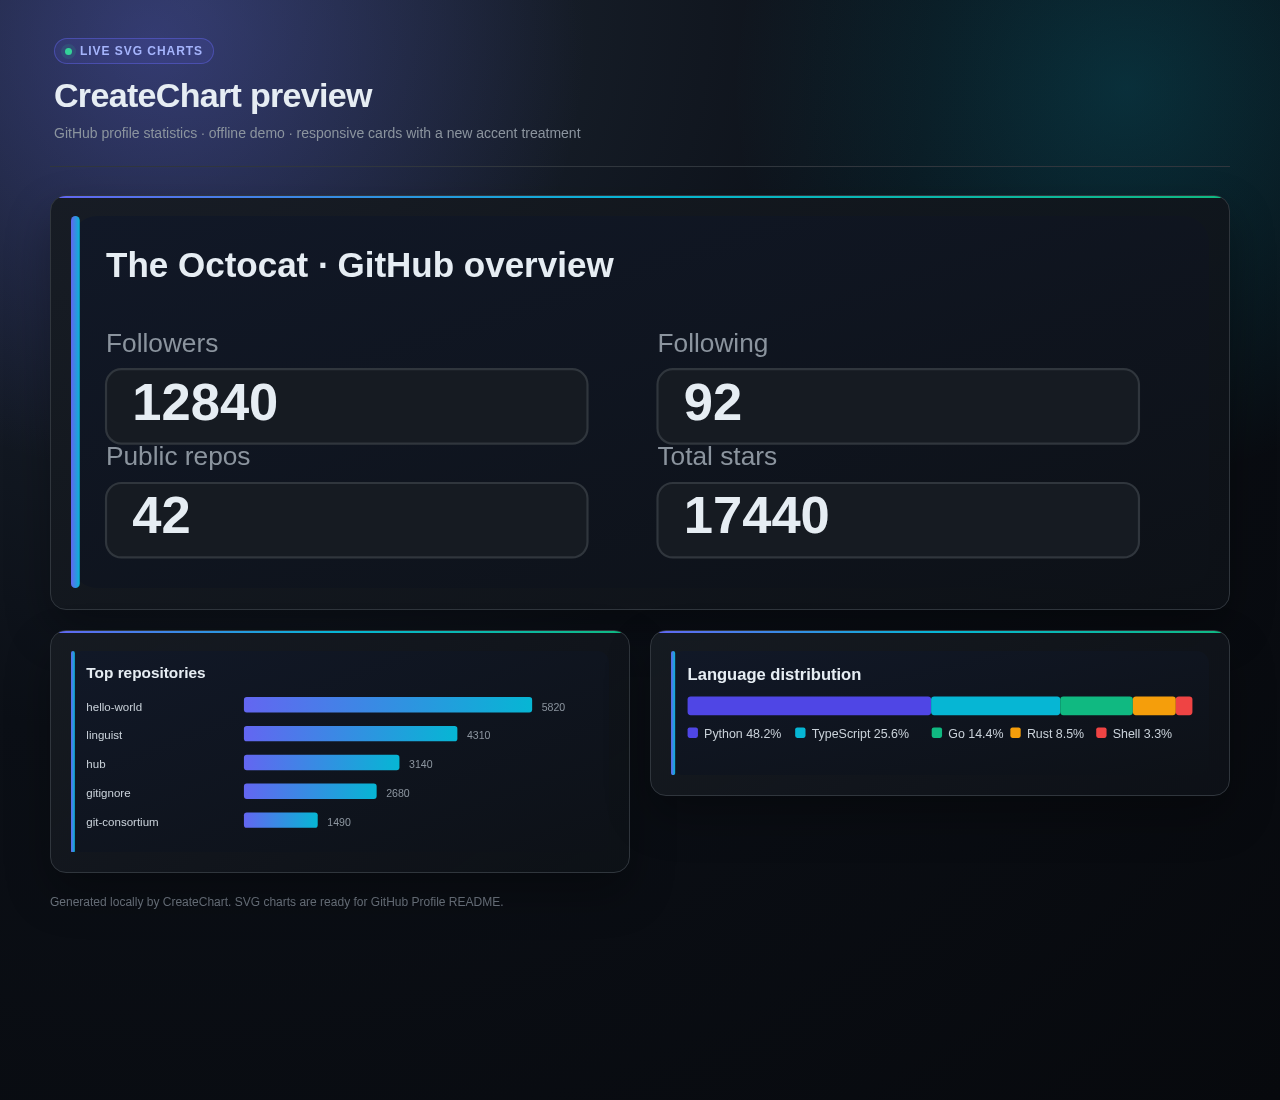
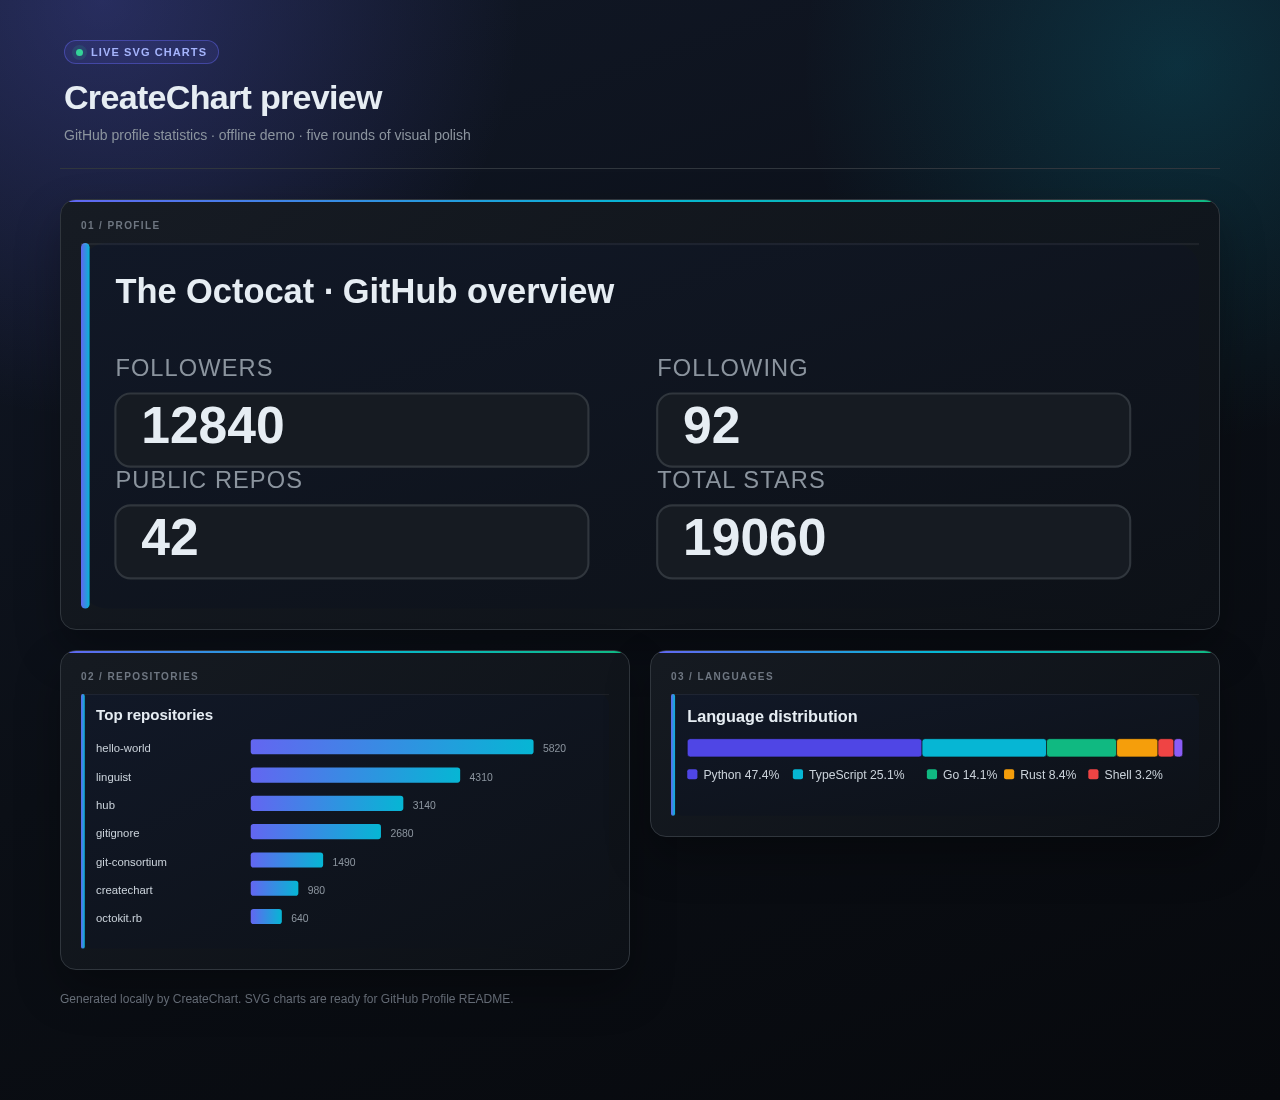
style(preview): 完成五轮视觉迭代并更新截图

diff --git a/createchart/charts.py b/createchart/charts.py
@@ -27,6 +27,7 @@ def _svg_header(title: str, width: int, height: int) -> List[str]:
         '</defs>',
         f'<rect width="{width}" height="{height}" fill="url(#bg)" rx="12"/>',
         f'<rect x="0" y="0" width="4" height="{height}" fill="url(#accent)" rx="2"/>',
+        f'<rect x="0" y="0" width="{width}" height="1" fill="#ffffff" opacity="0.06"/>',
         f'<text x="16" y="28" fill="#e6edf3" font-family="sans-serif" font-size="16" font-weight="700">{escape(title)}</text>',
     ]
 
@@ -51,7 +52,7 @@ def language_chart(languages: Dict[str, int], title: str = "Languages") -> str:
             continue
         segment = bar_width * value / total
         color = PALETTE[idx % len(PALETTE)]
-        parts.append(f'<rect x="{x:.2f}" y="44" width="{segment:.2f}" height="18" rx="3" fill="{color}"><title>{escape(lang)}: {value} bytes</title></rect>')
+        parts.append(f'<rect x="{x:.2f}" y="44" width="{segment:.2f}" height="18" rx="3" fill="{color}" stroke="#0d1117" stroke-width="0.6"><title>{escape(lang)}: {value} bytes</title></rect>')
         x += segment
 
     legend_x = 16.0
@@ -123,9 +124,9 @@ def profile_summary(user: Dict[str, object], repos: Iterable[Dict[str, object]])
     for idx, (label, value) in enumerate(stats):
         x = 16 + (idx % 2) * 252
         y = 62 + (idx // 2) * 52
-        lines.append(f'<text x="{x}" y="{y}" fill="#8b949e" font-family="sans-serif" font-size="12">{escape(label)}</text>')
+        lines.append(f'<text x="{x}" y="{y}" fill="#8b949e" font-family="sans-serif" font-size="11" letter-spacing="0.5">{escape(label).upper()}</text>')
         lines.append(f'<rect x="{x}" y="{y + 8}" width="220" height="34" rx="7" fill="#161b22" stroke="#30363d"/>')
-        lines.append(f'<text x="{x + 12}" y="{y + 31}" fill="#e6edf3" font-family="sans-serif" font-size="24" font-weight="700">{value}</text>')
+        lines.append(f'<text x="{x + 12}" y="{y + 31}" fill="#e6edf3" font-family="sans-serif" font-size="24" font-weight="700" font-feature-settings="tnum">{value}</text>')
     return _svg_footer(lines)
 
 
@@ -156,8 +157,13 @@ def demo_data() -> Tuple[Dict[str, object], List[Dict[str, object]], Dict[str, i
         {"name": "hub", "stargazers_count": 3140},
         {"name": "gitignore", "stargazers_count": 2680},
         {"name": "git-consortium", "stargazers_count": 1490},
+        {"name": "createchart", "stargazers_count": 980},
+        {"name": "octokit.rb", "stargazers_count": 640},
     ]
-    languages = {"Python": 182000, "TypeScript": 96500, "Go": 54300, "Rust": 32100, "Shell": 12400}
+    languages = {
+        "Python": 182000, "TypeScript": 96500, "Go": 54300,
+        "Rust": 32100, "Shell": 12400, "HTML": 6800,
+    }
     return user, repos, languages
 
 
@@ -185,54 +191,44 @@ def preview_html(charts: Dict[str, str]) -> str:
     body {{
       margin: 0;
       min-height: 100vh;
-      padding: 36px 24px 56px;
+      padding: 40px 24px 56px;
       background:
-        radial-gradient(circle at 12% 4%, rgba(99, 102, 241, .32) 0, transparent 28%),
-        radial-gradient(circle at 88% 8%, rgba(6, 182, 212, .2) 0, transparent 26%),
-        radial-gradient(circle at 15% 0%, #1f2937 0, #0b0f16 48%, #07090d 100%);
+        radial-gradient(circle at 8% 0%, rgba(99, 102, 241, .28) 0, transparent 26%),
+        radial-gradient(circle at 92% 6%, rgba(6, 182, 212, .18) 0, transparent 24%),
+        linear-gradient(160deg, #111827 0%, #0b0f16 52%, #07090d 100%);
       color: #e6edf3;
       font-family: -apple-system, BlinkMacSystemFont, "Segoe UI", sans-serif;
     }}
-    main {{ max-width: 1180px; margin: 0 auto; }}
-    header {{
-      margin-bottom: 28px;
-      padding: 2px 4px 22px;
-      border-bottom: 1px solid #30363d;
-    }}
+    main {{ max-width: 1160px; margin: 0 auto; }}
+    header {{ margin-bottom: 30px; padding: 0 4px 22px; border-bottom: 1px solid #30363d; }}
     .eyebrow {{
-      display: inline-flex;
-      align-items: center;
-      gap: 8px;
-      margin-bottom: 12px;
-      padding: 5px 10px;
-      border: 1px solid rgba(99, 102, 241, .45);
-      border-radius: 999px;
-      background: rgba(99, 102, 241, .12);
-      color: #a5b4fc;
-      font-size: 12px;
-      font-weight: 700;
-      letter-spacing: .08em;
-      text-transform: uppercase;
+      display: inline-flex; align-items: center; gap: 8px;
+      margin-bottom: 14px; padding: 5px 11px;
+      border: 1px solid rgba(99, 102, 241, .45); border-radius: 999px;
+      background: rgba(99, 102, 241, .12); color: #a5b4fc;
+      font-size: 11px; font-weight: 700; letter-spacing: .1em; text-transform: uppercase;
     }}
-    .eyebrow::before {{ content: ""; width: 7px; height: 7px; border-radius: 50%; background: #34d399; box-shadow: 0 0 0 4px rgba(52, 211, 153, .12); }}
+    .eyebrow::before {{
+      content: ""; width: 7px; height: 7px; border-radius: 50%;
+      background: #34d399; box-shadow: 0 0 0 4px rgba(52, 211, 153, .12);
+    }}
     h1 {{ margin: 0 0 8px; font-size: 34px; line-height: 1.12; letter-spacing: -.02em; }}
     .subtitle {{ color: #8b949e; font-size: 14px; line-height: 1.6; }}
     .grid {{ display: grid; grid-template-columns: repeat(2, minmax(0, 1fr)); gap: 20px; align-items: start; }}
     .card {{
-      position: relative;
-      padding: 20px;
-      border: 1px solid #30363d;
-      border-radius: 16px;
+      position: relative; padding: 20px;
+      border: 1px solid #30363d; border-radius: 16px;
       background: linear-gradient(145deg, rgba(22, 27, 34, .95), rgba(13, 17, 23, .88));
       box-shadow: 0 20px 45px rgba(0, 0, 0, .3);
       overflow: hidden;
     }}
     .card::before {{
-      content: "";
-      position: absolute;
-      inset: 0 0 auto;
-      height: 2px;
+      content: ""; position: absolute; inset: 0 0 auto; height: 2px;
       background: linear-gradient(90deg, #6366f1, #06b6d4, #10b981);
+    }}
+    .card .section-label {{
+      display: block; margin: 0 0 12px; color: #6e7681;
+      font-size: 10px; font-weight: 700; letter-spacing: .14em; text-transform: uppercase;
     }}
     .card:first-child {{ grid-column: 1 / -1; }}
     .card svg {{ display: block; width: 100%; height: auto; }}
@@ -250,12 +246,12 @@ def preview_html(charts: Dict[str, str]) -> str:
     <header>
       <div class="eyebrow">Live SVG charts</div>
       <h1>CreateChart preview</h1>
-      <div class="subtitle">GitHub profile statistics · offline demo · responsive cards with a new accent treatment</div>
+      <div class="subtitle">GitHub profile statistics · offline demo · five rounds of visual polish</div>
     </header>
     <section class="grid">
-      <div class="card">{charts["profile"]}</div>
-      <div class="card">{charts["repos"]}</div>
-      <div class="card">{charts["languages"]}</div>
+      <div class="card"><span class="section-label">01 / Profile</span>{charts["profile"]}</div>
+      <div class="card"><span class="section-label">02 / Repositories</span>{charts["repos"]}</div>
+      <div class="card"><span class="section-label">03 / Languages</span>{charts["languages"]}</div>
     </section>
     <footer>Generated locally by CreateChart. SVG charts are ready for GitHub Profile README.</footer>
   </main>
